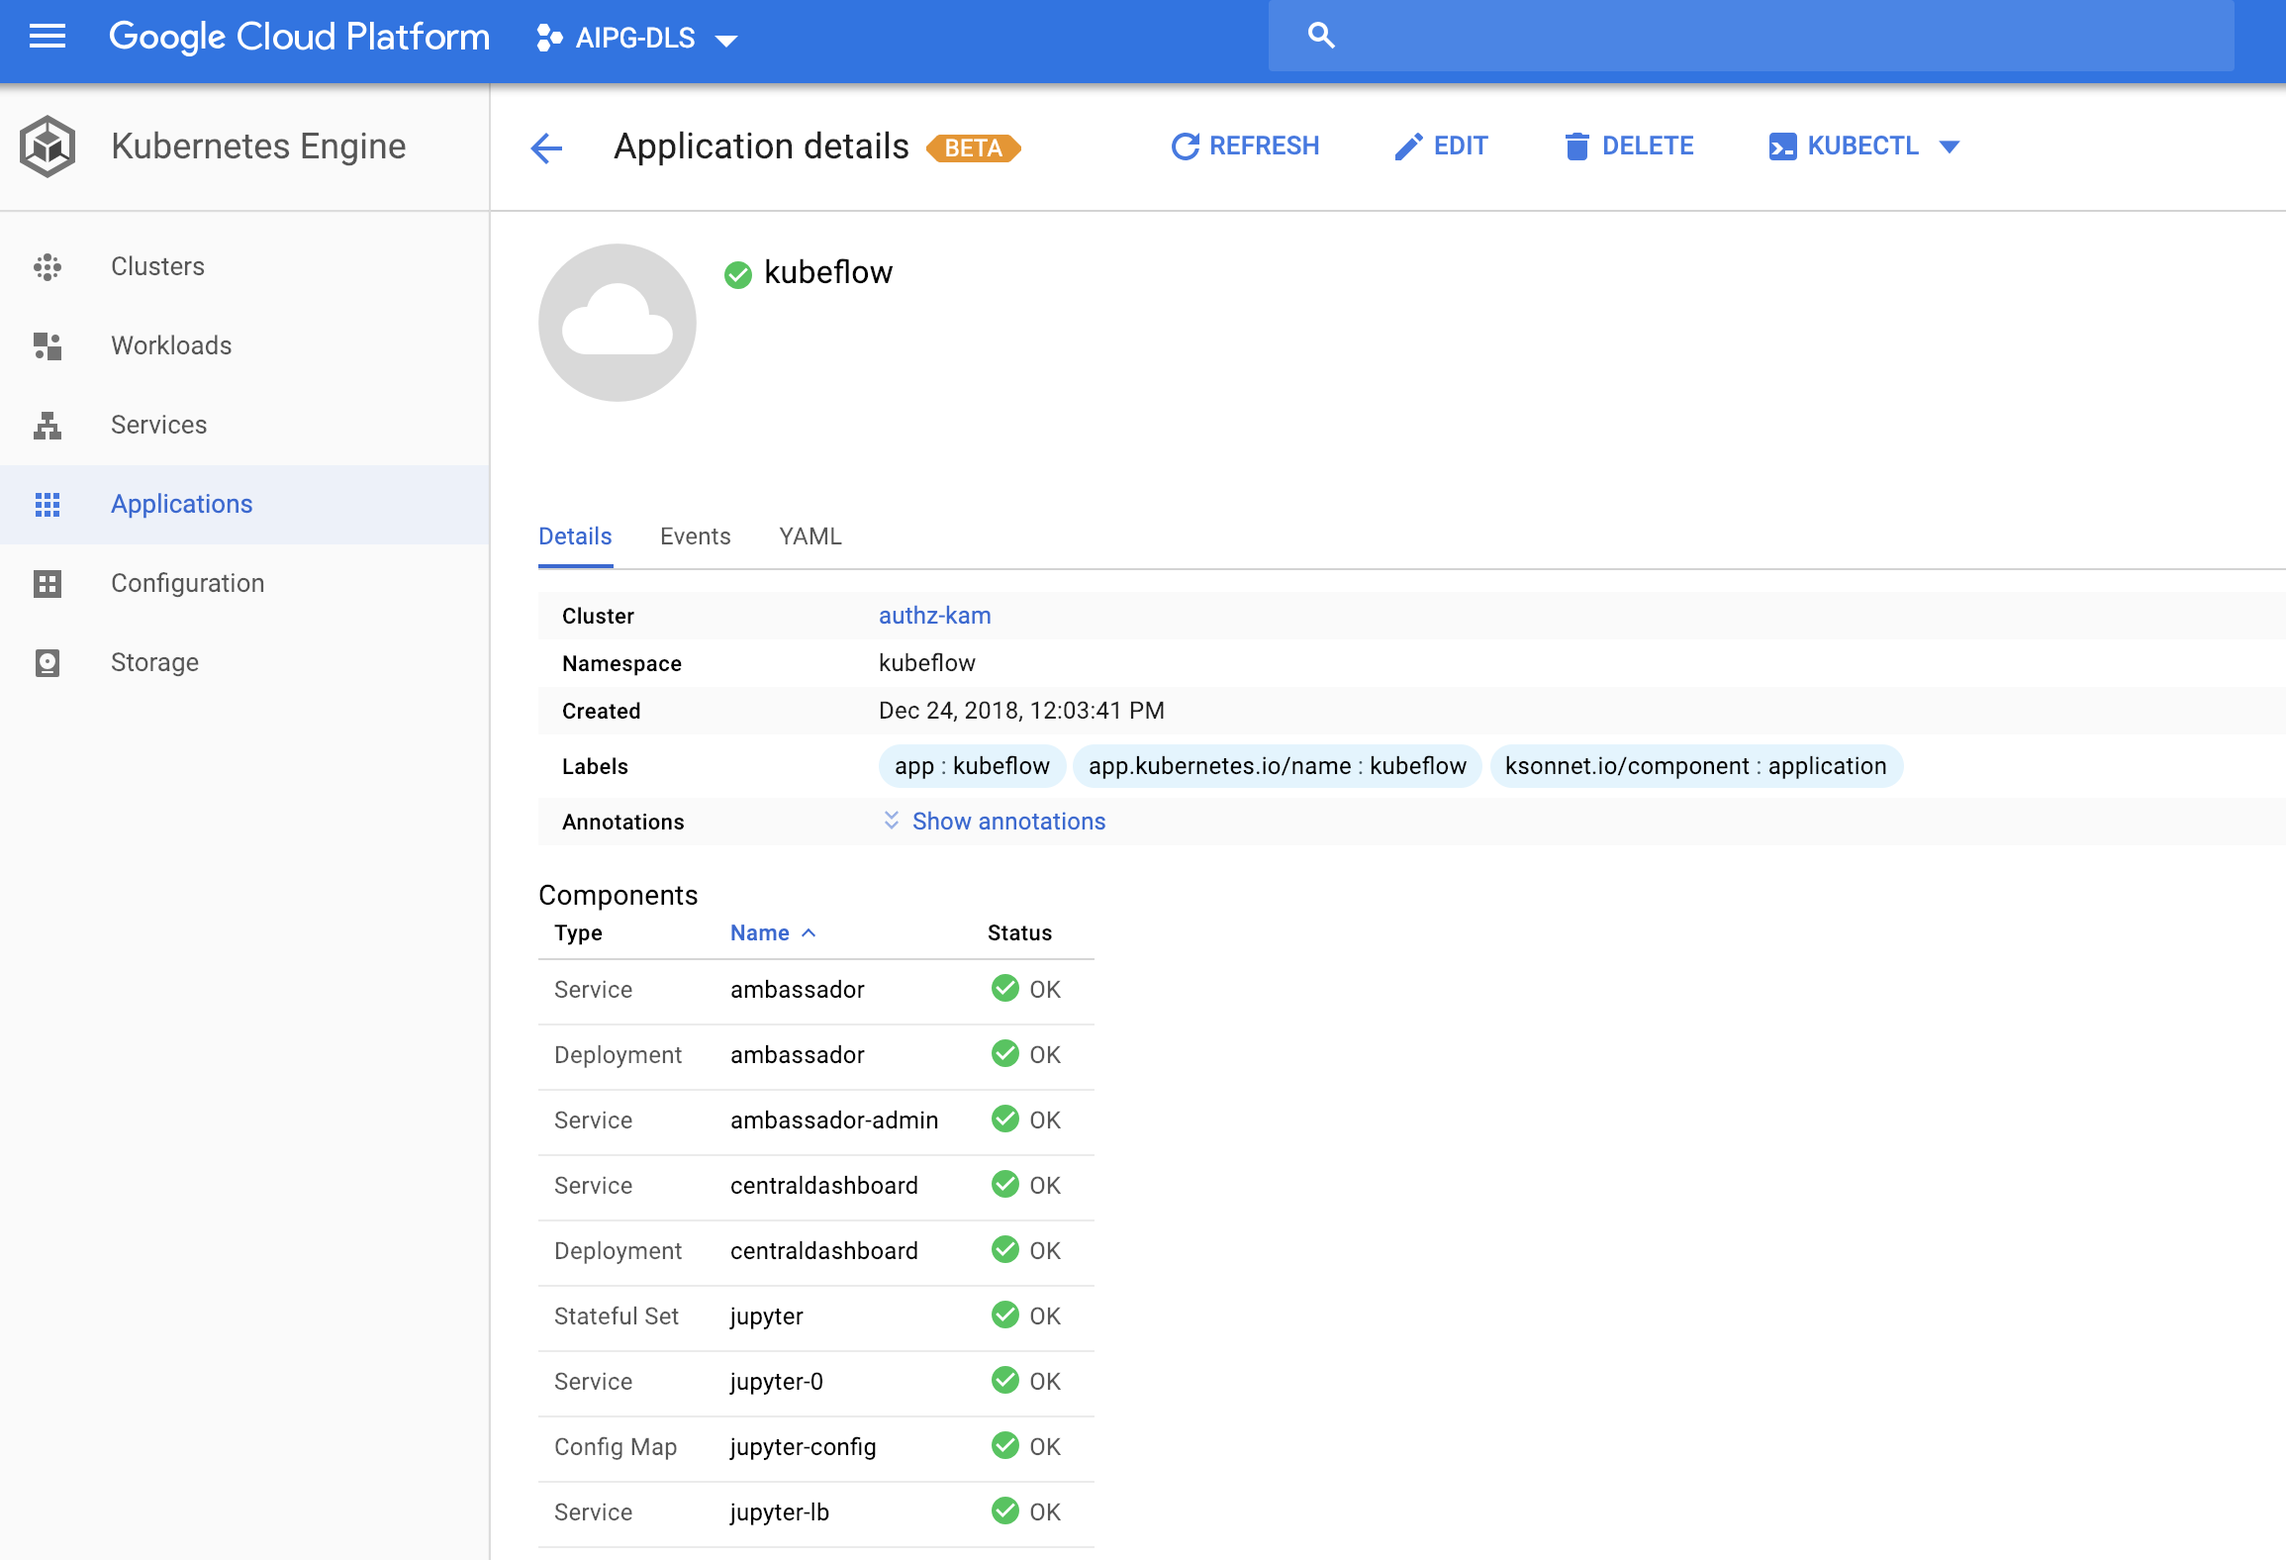
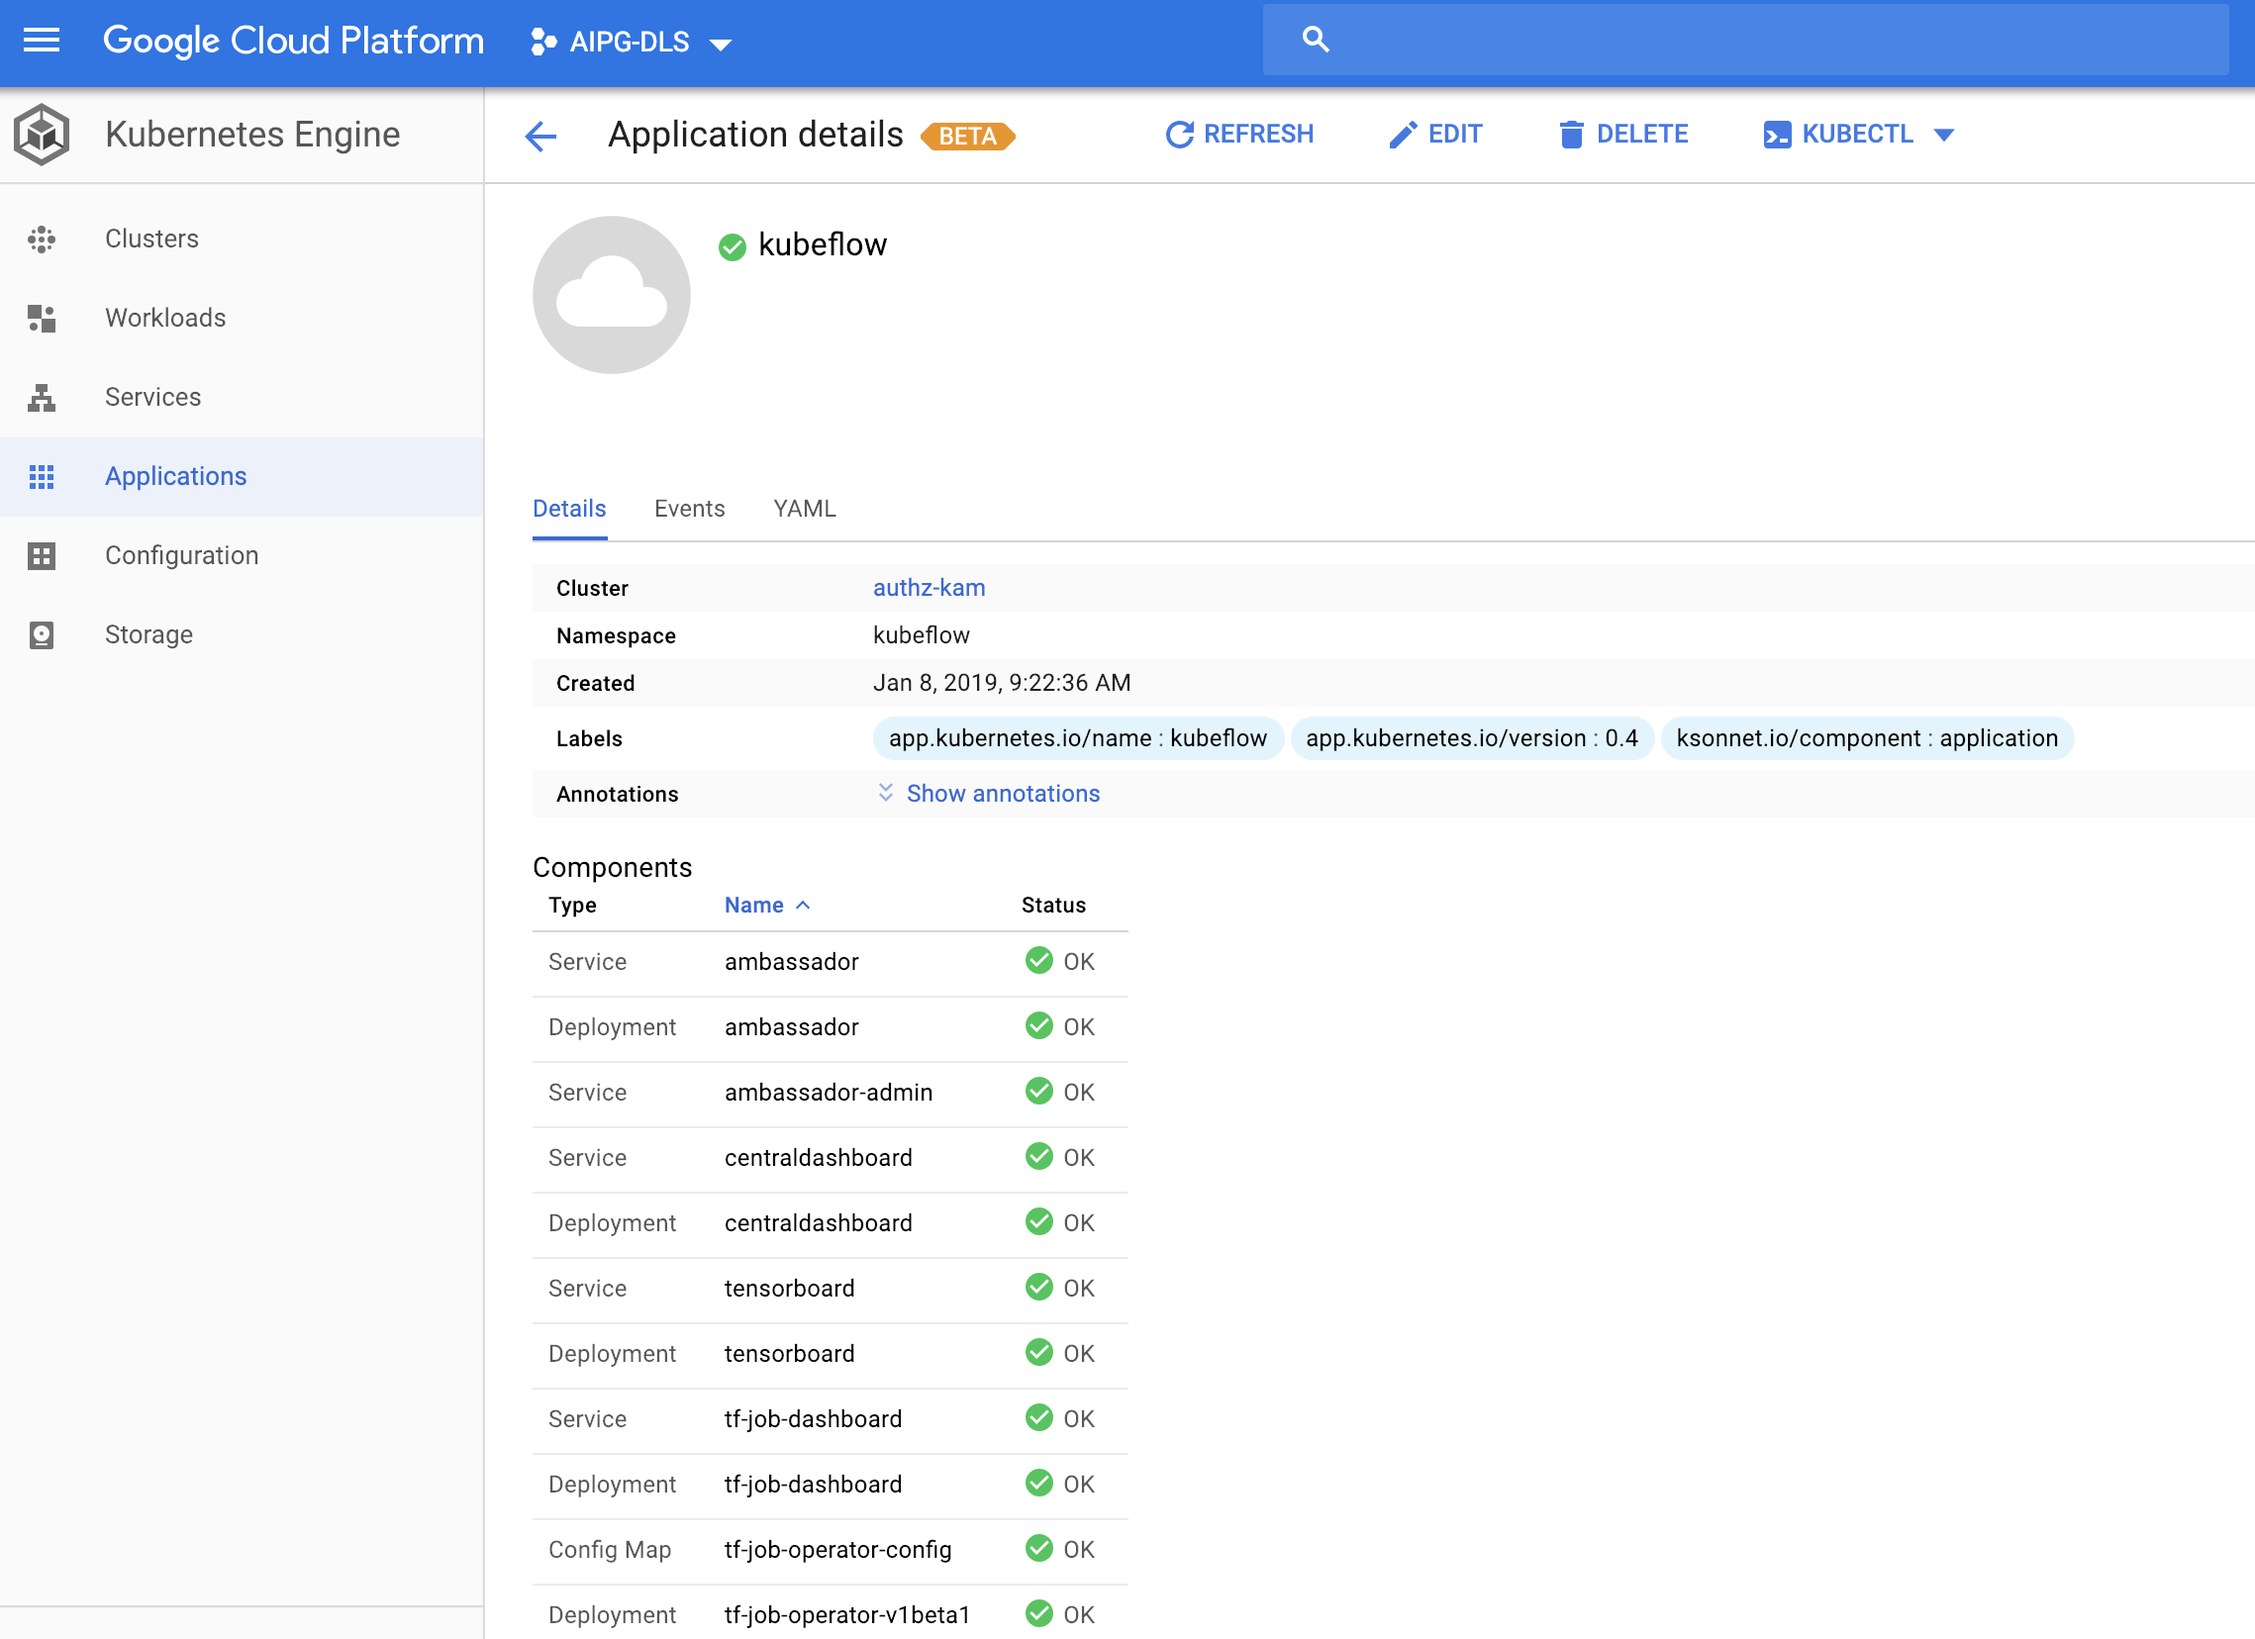
/retest

diff --git a/kubeflow/application/README.md b/kubeflow/application/README.md
@@ -16,17 +16,19 @@ apiVersion: app.k8s.io/v1beta1
 kind: Application
 metadata:
   annotations:
-  creationTimestamp: 2018-12-20T21:40:53Z
+    kubectl.kubernetes.io/last-applied-configuration: |
+      {"apiVersion":"app.k8s.io/v1beta1","kind":"Application","metadata":{"annotations":{},"labels":{"app.kubernetes.io/name":"kubeflow","app.kubernetes.io/version":"0.4","ksonnet.io/component":"application"},"name":"kubeflow","namespace":"kubeflow"},"spec":{"assemblyPhase":"Succeeded","componentKinds":[{"group":"rbac.authorization.k8s.io/v1beta1","kind":"ClusterRoleBinding"},{"group":"rbac.authorization.k8s.io/v1beta1","kind":"ClusterRole"},{"group":"v1","kind":"ConfigMap"},{"group":"apiextensions.k8s.io/v1beta1","kind":"CustomResourceDefinition"},{"group":"apps/v1beta1","kind":"Deployment"},{"group":"extensions/v1beta1","kind":"Deployment"},{"group":"rbac.authorization.k8s.io/v1beta1","kind":"Role"},{"group":"v1","kind":"ServiceAccount"},{"group":"v1","kind":"Service"}],"descriptor":{"description":"","icons":[],"keywords":[],"links":[],"maintainers":[],"notes":"","owners":[],"type":"kubeflow","version":"0.4"},"info":[],"selector":{"matchLabels":{"app.kubernetes.io/name":"kubeflow"}}}}
+  creationTimestamp: 2019-01-08T17:22:36Z
   generation: 1
   labels:
-    app: kubeflow
     app.kubernetes.io/name: kubeflow
+    app.kubernetes.io/version: "0.4"
     ksonnet.io/component: application
   name: kubeflow
   namespace: kubeflow
-  resourceVersion: "2889700"
+  resourceVersion: "5643791"
   selfLink: /apis/app.k8s.io/v1beta1/namespaces/kubeflow/applications/kubeflow
-  uid: ed56d218-049f-11e9-88a0-42010a8a01a3
+  uid: fdc16b4e-1369-11e9-90ff-42010a8a0097
 spec:
   assemblyPhase: Succeeded
   componentKinds:
@@ -40,26 +42,14 @@ spec:
     kind: CustomResourceDefinition
   - group: apps/v1beta1
     kind: Deployment
-  - group: apps/v1beta2
-    kind: Deployment
   - group: extensions/v1beta1
     kind: Deployment
-  - group: batch/v1
-    kind: Job
-  - group: v1
-    kind: PersistentVolumeClaim
-  - group: rbac.authorization.k8s.io/v1beta1
-    kind: RoleBinding
   - group: rbac.authorization.k8s.io/v1beta1
     kind: Role
-  - group: v1
-    kind: Secret
   - group: v1
     kind: ServiceAccount
   - group: v1
     kind: Service
-  - group: apps/v1beta1
-    kind: StatefulSet
   descriptor:
     description: ""
     icons: []
@@ -74,6 +64,18 @@ spec:
   selector:
     matchLabels:
       app.kubernetes.io/name: kubeflow
+status:
+  assemblyPhase: Pending
+  counts:
+    children: 16
+    installed_children: 21
+    missing_children: 0
+    requested_children: 21
+    validated_children: 16
+  created: true
+  debug: null
+  observedGeneration: 1
+  ready: "True"
 ```
 
 Alternatively, the ksonnet application component can produce an Application Custom Resource 
@@ -86,7 +88,7 @@ ks param set application components '["ambassador","jupyter"]'
 ## Options (emitCRD=true, emitController=false)
 
 - emitCRD (=true)
-If the Application CRD has already been emitted then set this to false
+If the Application CRD has already been emitted (eg `kubectl get crds applications.app.k8s.io`) then set this to false
 
 ```
 ks param set application emitCRD false
@@ -97,7 +99,7 @@ ks param set application emitCRD false
 If this flag is true then the components normally deployed directly to the api-server will be emitted 
 by the application-controller in-cluster. 
 
-## Example Script (Deploying components '["ambassador","jupyter","centraldashboard","tensorboard","tf-training"]')
+## Example Script (Deploying components '["ambassador","centraldashboard","tf-job-operator","tensorboard"]')
 
 ```
 #!/usr/bin/env bash
@@ -116,11 +118,14 @@ $KUBEFLOW_DIR/scripts/kfctl.sh init kf_app --platform none
 cd $HOME/kf_app
 $KUBEFLOW_DIR/scripts/kfctl.sh generate all
 cd $HOME/kf_app/ks_app
+ks pkg install kubeflow/tensorboard
+ks generate tensorboard tensorboard
 kubectl create ns kubeflow
 ks env add default --namespace kubeflow
 ks param set application name kubeflow
 ks param set application emitController true
-ks param set application components '["ambassador","jupyter","centraldashboard","tensorboard","tf-training"]'
+ks param set application components '["ambassador","centraldashboard","tf-job-operator","tensorboard"]'
+ks param set application debug true
 ks show default -c metacontroller -c application > default.yaml
 kubectl apply --validate=false -f default.yaml
 ```
